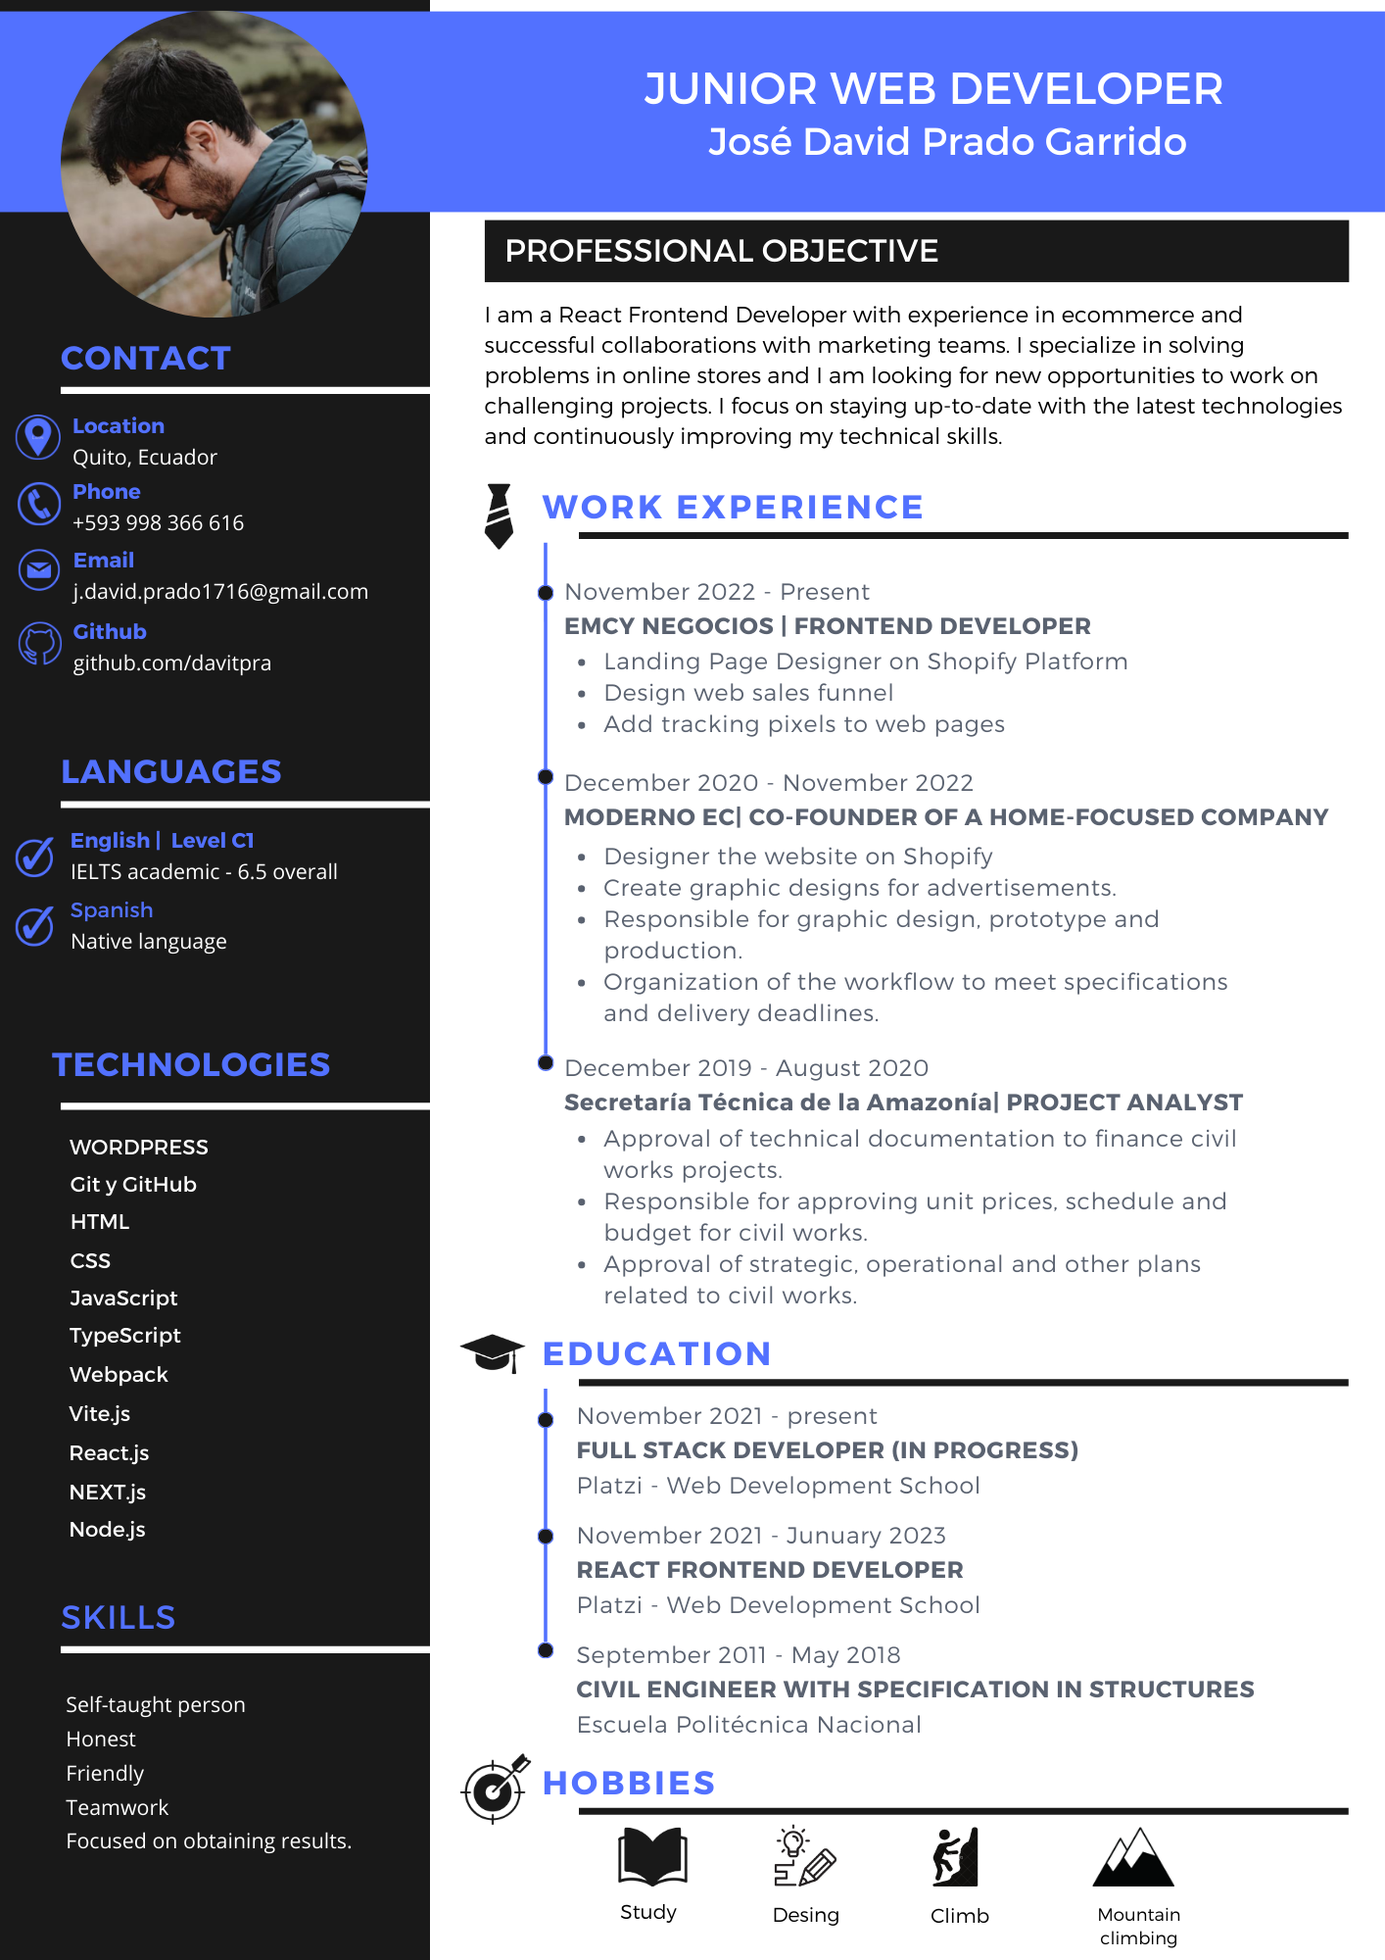
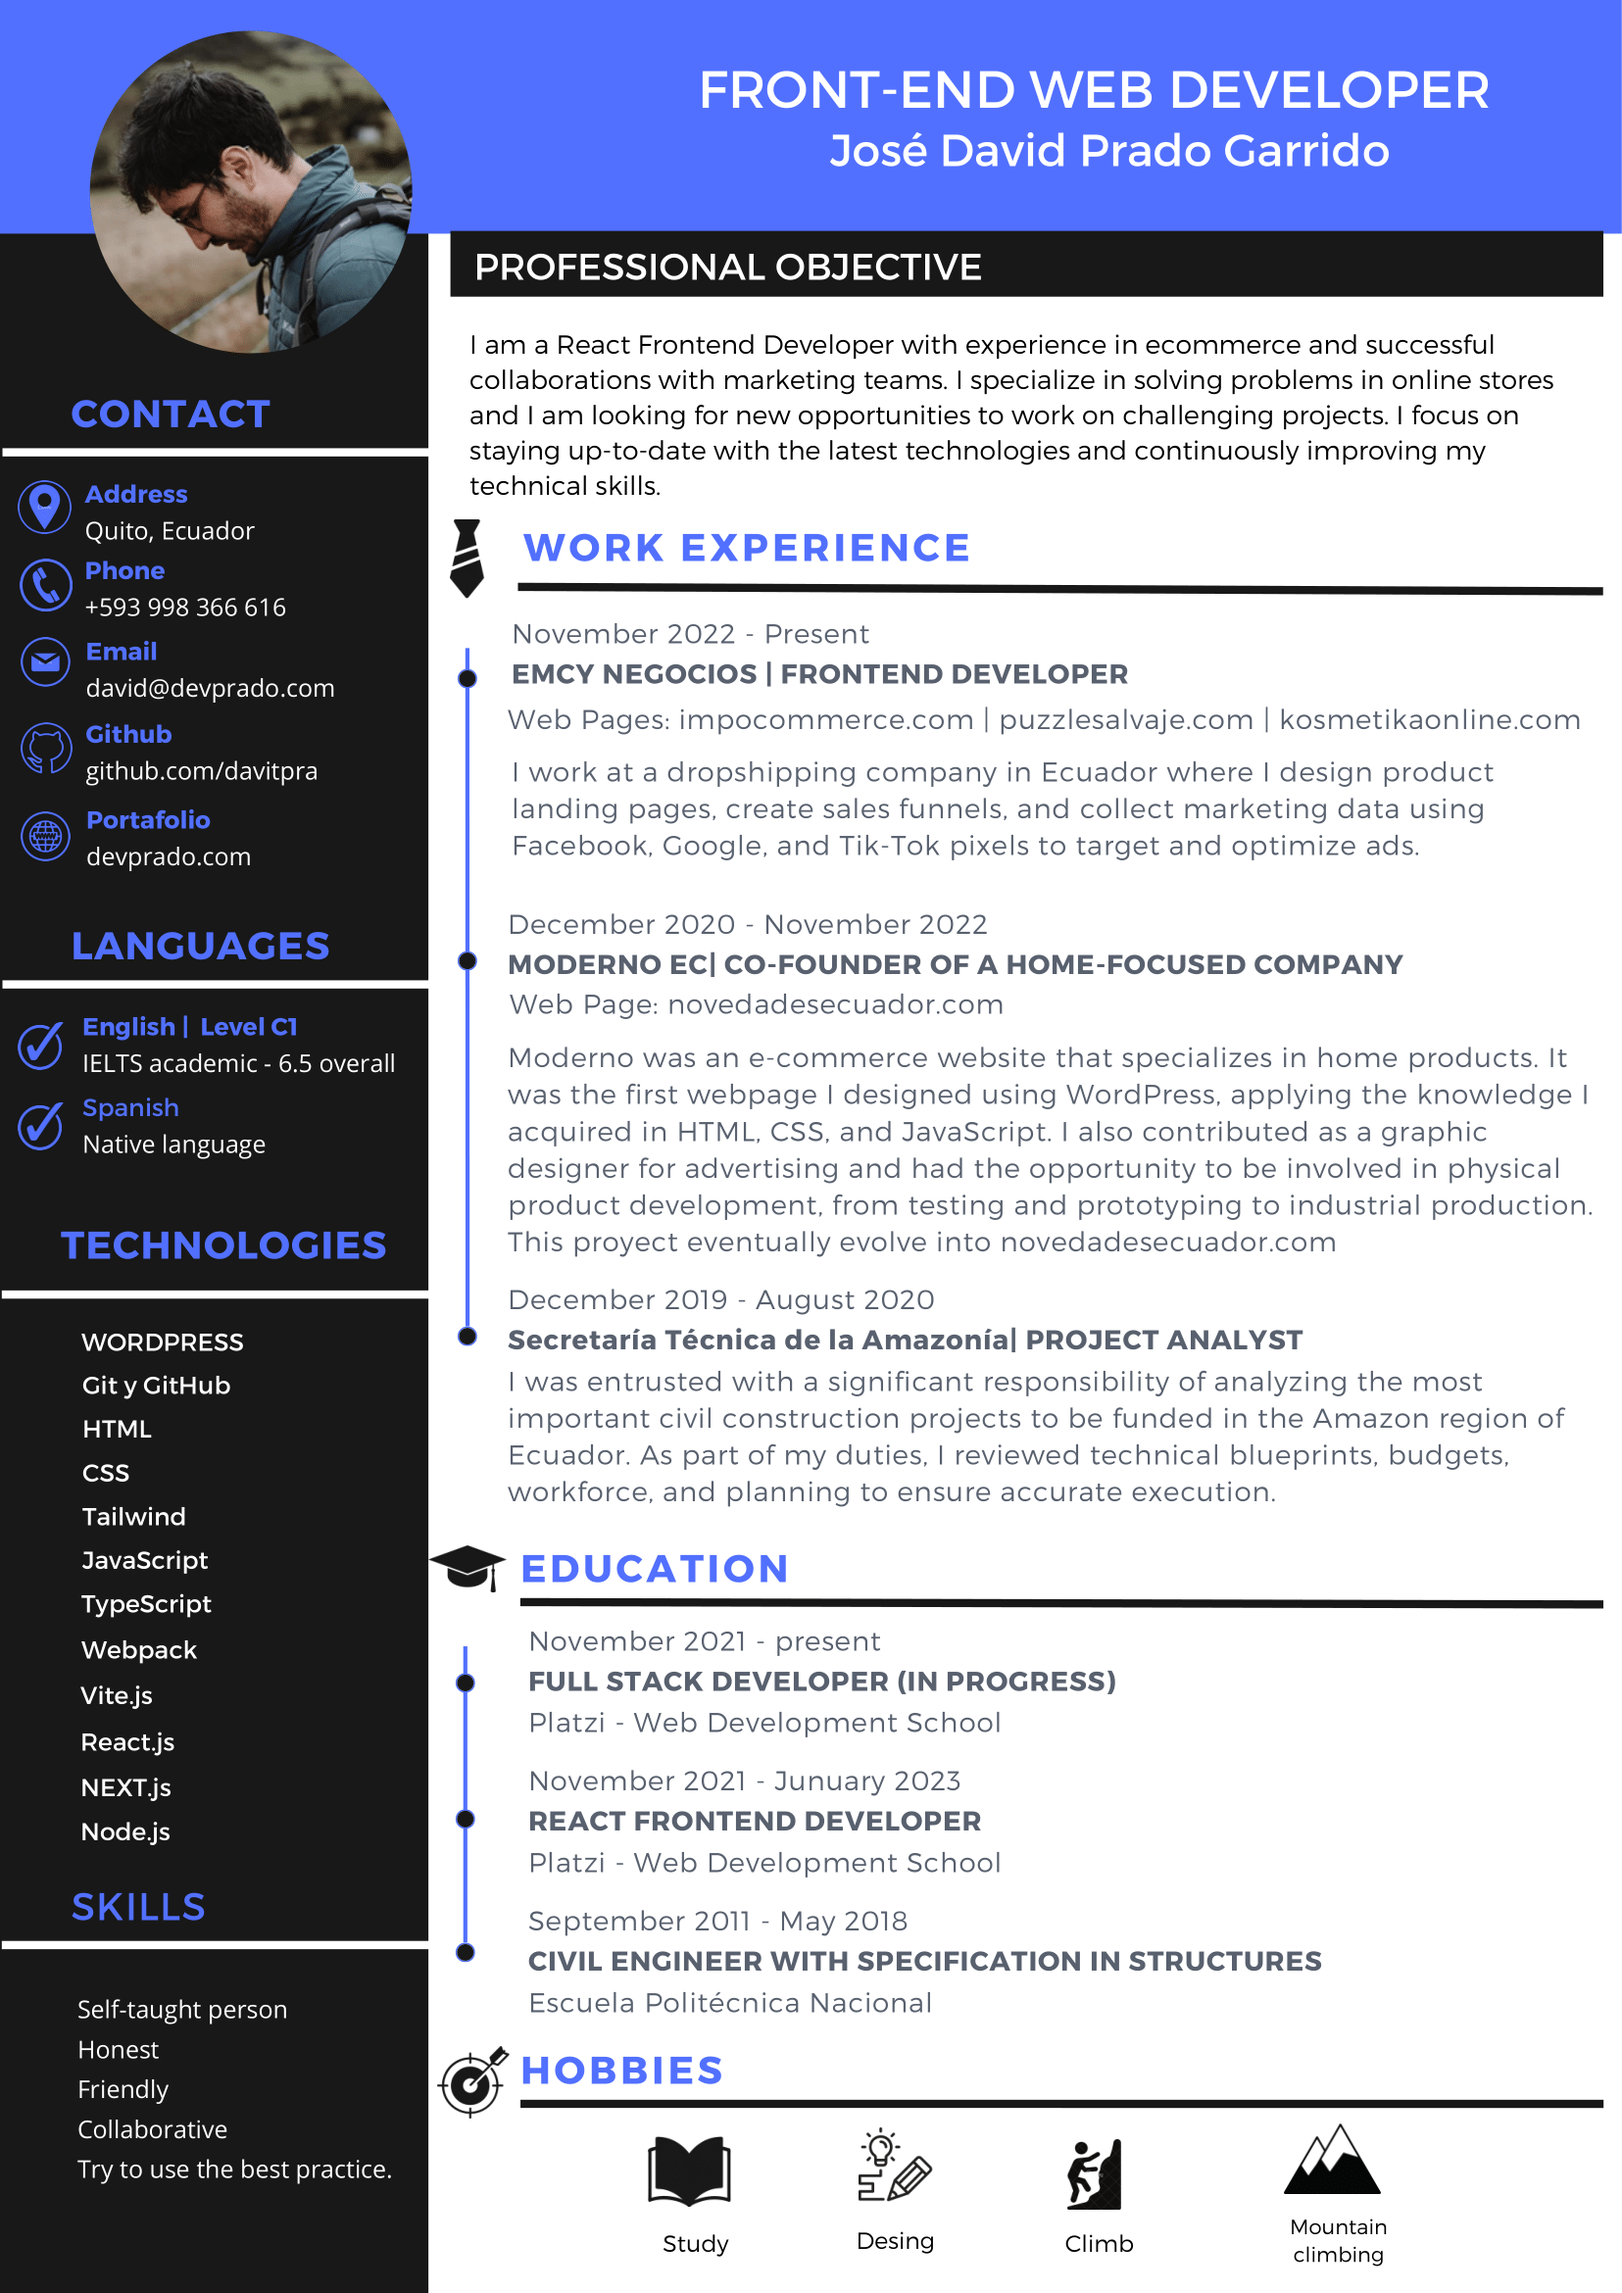
changed the CV

Changed region(s): [[0.0, 0.0, 1.0, 1.0], [0.0622, 0.558, 0.0934, 0.589], [0.0, 0.558, 0.0311, 0.589]]

diff --git a/src/components/Info/ProfileInfo.js b/src/components/Info/ProfileInfo.js
@@ -5,7 +5,7 @@ const info = [
   { question: 'Github:', answer: 'davitpra' },
   { question: 'Mobile:', answer: '(+593) 99-836-6616' },
   { question: 'Email:', answer: 'david@devprado.com' },
-  { question: 'Location:', answer: 'Quito, EC.' },
+  { question: 'Address:', answer: 'Quito, EC.' },
   { question: 'Languages:', answer: 'English, Spanish' },
   { question: 'LinkedIn:', answer: 'davitprado' },
   { question: 'Birthday:', answer: '18 Feb, 1993' }
